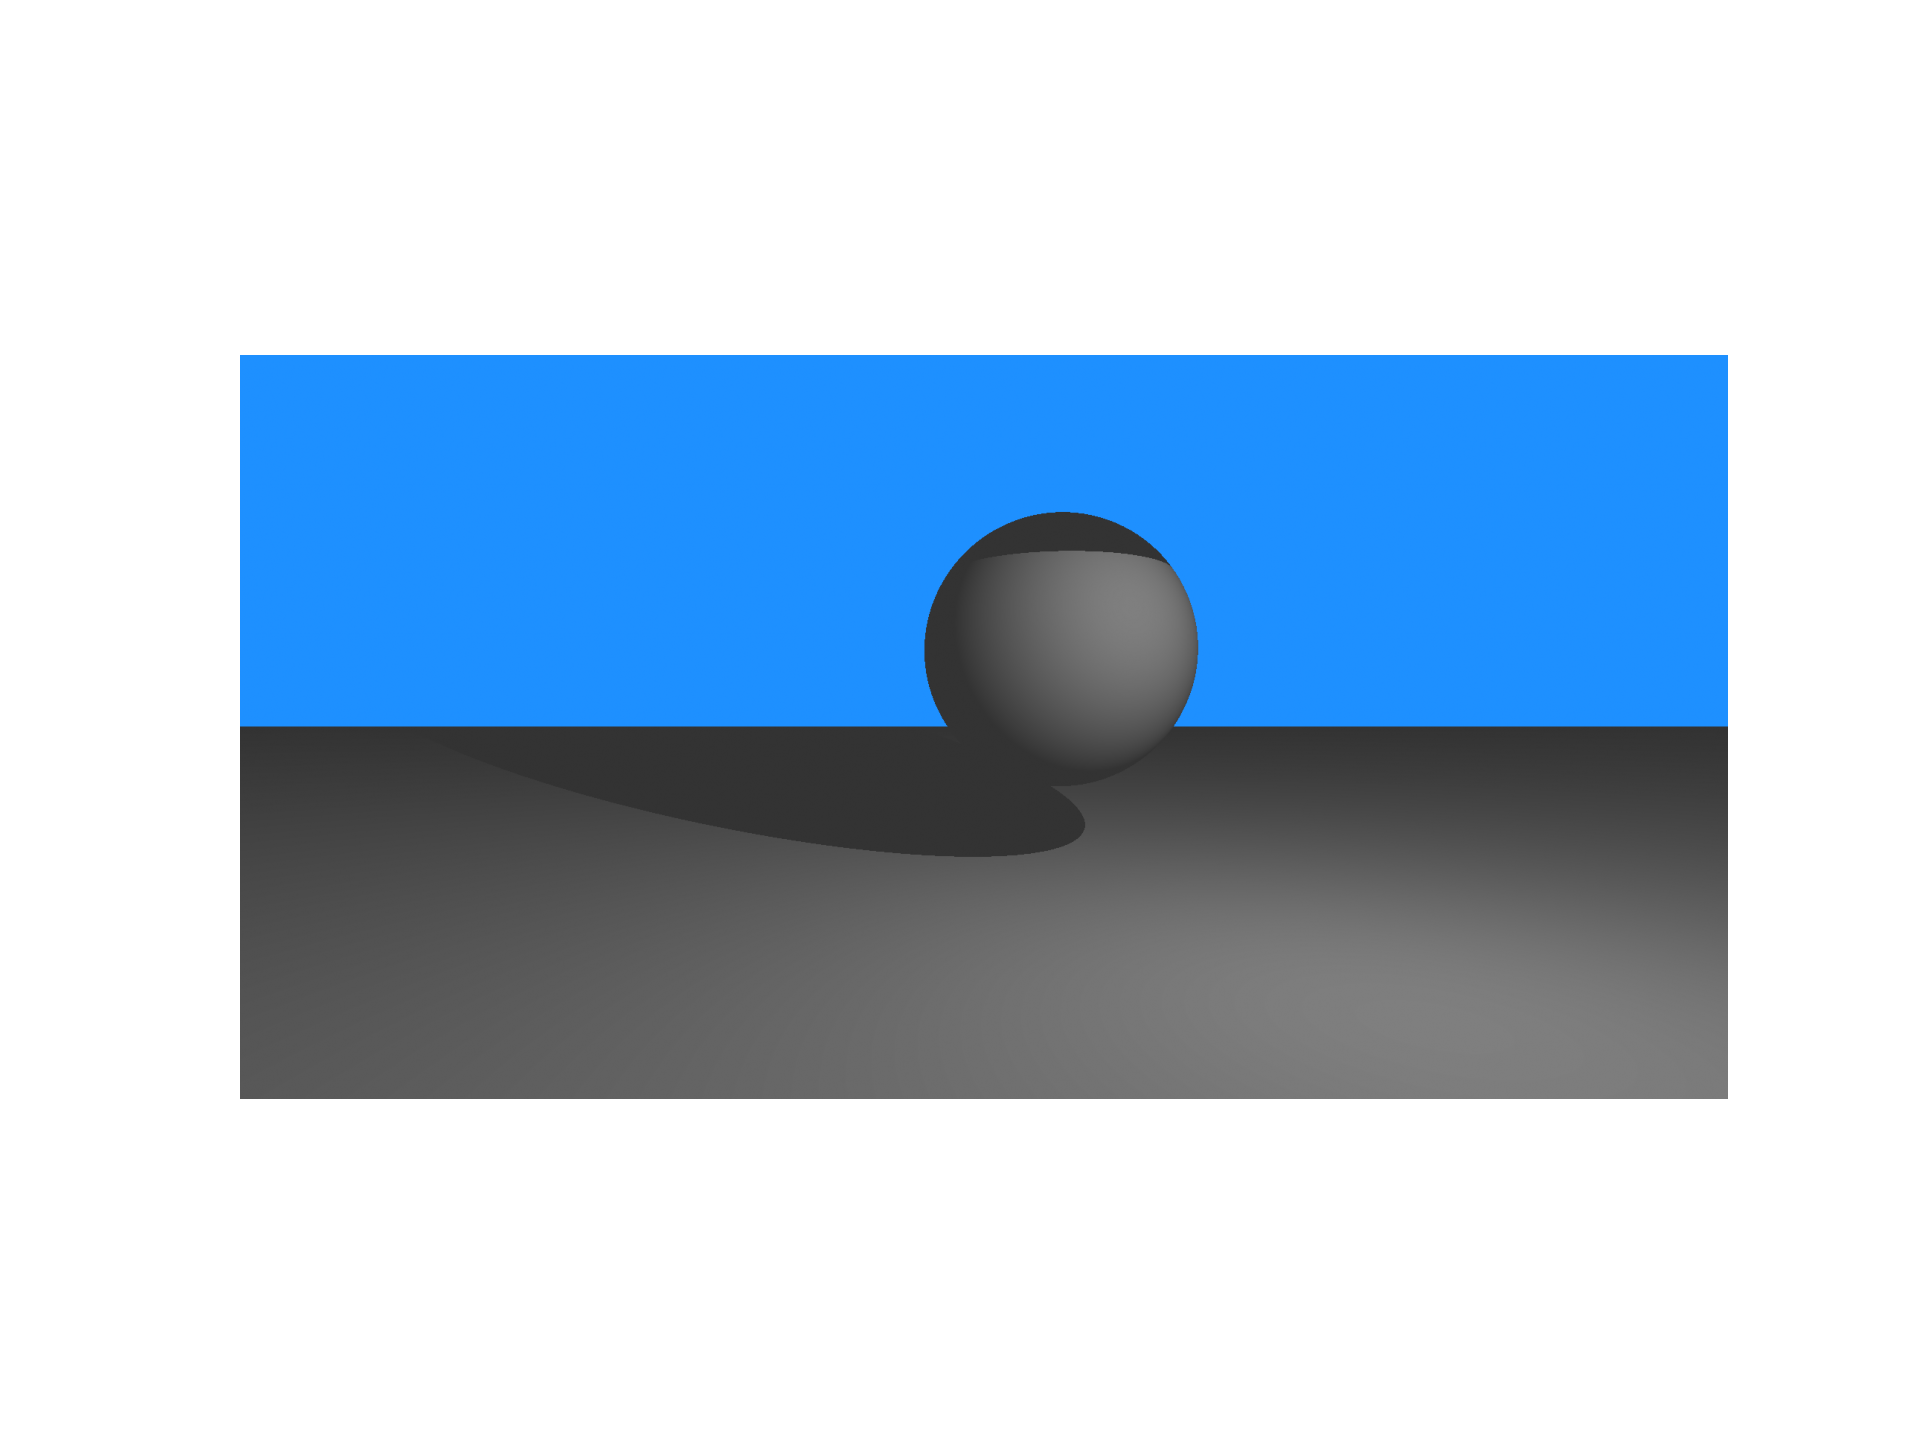
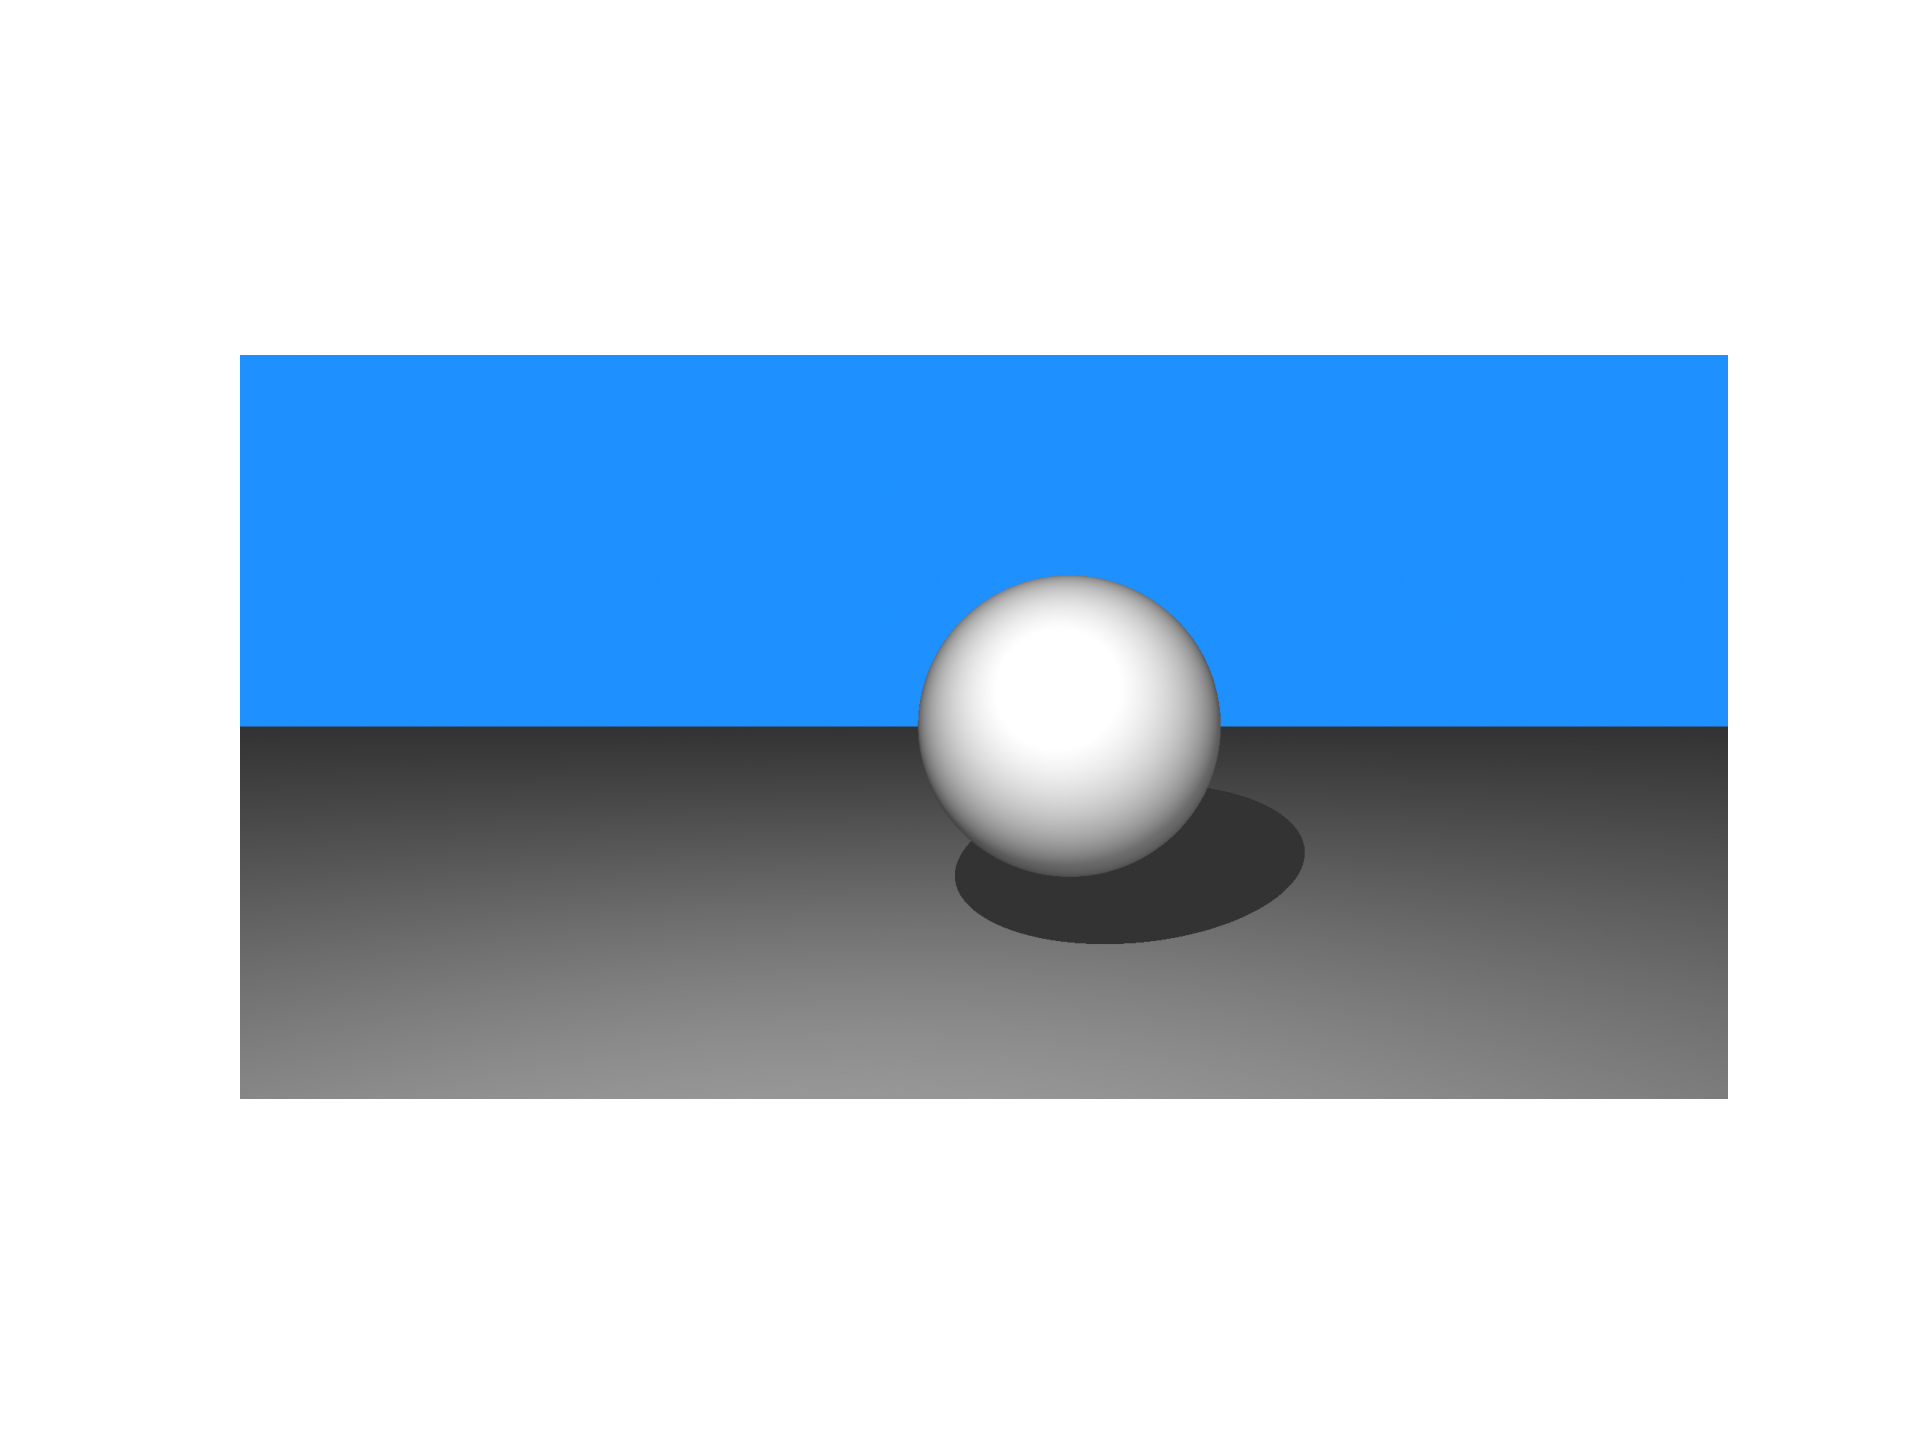
camera again

Changed region(s): [[0.125, 0.625, 0.6562, 0.7812], [0.3438, 0.3438, 0.6875, 0.6562]]

diff --git a/render/scene.cpp b/render/scene.cpp
@@ -34,40 +34,47 @@ Matr3 Camera::calculate_rotate() {
 }
 
 Ray Camera::calculate_ray(unsigned x, unsigned y) {
-    
- 
 
-    Vec3 screen_point(width * x / WIDTH - width / 2 + this->position.x, 1 + this->position.y, height  * y / HEIGHT - height / 2 + this->position.z);
-    Vec3 direction(rotate * (screen_point - position).normalized());
-    return Ray(position, direction);
+    Vec3 point(2*tan(FOV_X/2) * (x*1.0 / X - 0.5), 1, 2*tan(FOV_Y/2) * (y *1.0/ Y - 0.5));
+    Vec3 screen_point = point + position;
+    Vec3 direction(rotate *point);
+    return Ray(position, direction.normalized());
 }
 
-Camera::Camera(Vec3 position, Vec3 angles, double distance, double width, double height):
-    position(position), distance(distance), width(width), height(height) {
+Camera::Camera(Vec3 position, Vec3 angles, double FOV_X, int X = WIDTH, int Y = HEIGHT):
+    position(position), FOV_X(FOV_X), X(X), Y(Y) {
     for (short i = 0; i < 3; i++) this->angles[i] = angles[i];
     rotate = calculate_rotate();
+    FOV_Y = 2* atan(tan(FOV_X/2)*(Y*1.00/X));
 }
 
 Camera::Camera() {
     position = Vec3(0, 0, 0);
     angles[0] = 0, angles[1] = 0, angles[2] = 0;
-    FOV = 0.7;
-
-    width = 2*tan(FOV/2);
-    height = (width * HEIGHT)/WIDTH;
+    X = WIDTH;
+    Y = HEIGHT;
+    FOV_X = 0.7;
+    FOV_Y = 2* atan(tan(0.7/2)* (Y/X));
 
     rotate = calculate_rotate();
 }
 
+int Camera::height() const{
+    return Y;
+}
+
+int Camera::width() const{
+    return X;
+}
 
 //res Ray[Width][Hight]
 std::vector<std::vector<Ray>> Camera::create_rays() {
     std::vector<std::vector<Ray>> ret;
     std::vector<Ray> _a;
-    for (int i = 0; i < WIDTH; i++)
+    for (int i = 0; i < X; i++)
         ret.push_back(_a);
-    for (unsigned x = 0; x < WIDTH; x++) {
-        for (unsigned y = 0; y < HEIGHT; y++) {
+    for (unsigned x = 0; x < X; x++) {
+        for (unsigned y = 0; y < Y; y++) {
             ret[x].push_back(calculate_ray(x, y));
         }
     }
@@ -78,15 +85,20 @@ std::vector<std::vector<Ray>> Camera::create_rays() {
 Object* Camera::clone(std::vector<std::string> const & arg){
    // Vec3 position, Vec3 angles, double distance, double width, double height
     assert(arg.size() >= 9);
-    Camera* rez = new Camera();
-    rez->position = Vec3(atof(arg[0].c_str()), atof(arg[1].c_str()), atof(arg[2].c_str()));
-    rez->angles[0] = atof(arg[3].c_str());
-    rez->angles[1] = atof(arg[4].c_str());
-    rez->angles[2] = atof(arg[5].c_str());
-    rez->distance = atof(arg[6].c_str());
-    rez->width = atof(arg[7].c_str());
-    rez->height = atof(arg[8].c_str());
-    rez->rotate = calculate_rotate();
+    Camera* rez = new Camera(
+        Vec3(atof(arg[0].c_str()), atof(arg[1].c_str()), atof(arg[2].c_str())),
+        Vec3(atof(arg[3].c_str()), atof(arg[4].c_str()), atof(arg[5].c_str())),
+        atof(arg[6].c_str()), atof(arg[7].c_str()),  atof(arg[8].c_str())
+    );
+    /*
+    rez->position = ;
+    rez->angles[0] = ;
+    rez->angles[1] = ;
+    rez->angles[2] = 
+    rez->FOV_X = ;
+    rez->X = a;
+    rez->Y = atof(arg[8].c_str());
+    rez->rotate = calculate_rotate();*/
     return rez;
 }
 
@@ -102,18 +114,23 @@ Color** Scene::get_res() {
     return res;
 }
 
+const Camera* Scene::get_camera() const{
+    return camera;
+};
+
 Scene::Scene() {
-    res = new Color*[WIDTH];
-    for (short i = 0; i < WIDTH; i++) {
-        res[i] = new Color[HEIGHT];
-    }
+    // res = new Color*[WIDTH];
+    // for (short i = 0; i < WIDTH; i++) {
+    //     res[i] = new Color[HEIGHT];
+    // }
 }
 
 Scene::~Scene() {
-    for (short i = 0; i < WIDTH; i++) {
+    for (short i = 0; i < camera->width(); i++) {
         delete[] res[i];
     }
     delete[] res;
+    delete camera;
 }
 
 Scene::Scene(std::vector<Figure*> figures, std::vector<Light_source*> lights, Camera* camera):
@@ -237,9 +254,16 @@ Color Scene::trace_ray(Ray ray) {
 void Scene::render() {
     std::vector<std::vector<Ray>> rays = camera->create_rays();
 
+    int height =  camera->height();
+    int width = camera->width();
 
-    for (unsigned x = 0; x < WIDTH; x++) {
-        for (unsigned y = 0; y < HEIGHT; y++) {
+    res = new Color*[width];
+     for (short i = 0; i < width; i++) {
+         res[i] = new Color[height];
+    }
+
+    for (unsigned x = 0; x < width; x++) {
+        for (unsigned y = 0; y < height; y++) {
             // int pos_x = rays[x][y].x, pos_y = rays[x][y].y;
             res[x][y] = trace_ray(rays[x][y]);
             

diff --git a/render/scene.h b/render/scene.h
@@ -153,16 +153,17 @@ class Camera: public Object {
     Vec3 position;
     double angles[3]; // psi, theta, pfi;
     Matr3 rotate; // матрица поворота
-    double FOV; // ширина поля зрения вдоль WIDTH: 1,57 - 90 Градусов
-    double distance; // расстояние до экрана
-    double width, height; // ширина и высота экрана
+    double FOV_X, FOV_Y; // ширина поля зрения вдоль WIDTH: 1,57 - 90 Градусов
+    int X, Y; // ширина и высота экрана
     Matr3 calculate_rotate();
     Ray calculate_ray(unsigned x, unsigned y);
 public:
-Object* clone(std::vector<std::string> const & arg);
+    int height() const;
+    int width() const;
+    Object* clone(std::vector<std::string> const & arg);
     std::pair<int,std::string> name() const;
     Camera(); // пустой конструктор (источник в начале координат, углы нулевые, расстояние, ширина, высота единицы)
-    Camera(Vec3 position, Vec3 angels, double distance = 1, double width = 1, double height = 1);
+    Camera(Vec3 position, Vec3 angels, double FOV_X, int X, int Y);
     std::vector<std::vector<Ray>> create_rays(); // генерация лучей
 };
 
@@ -179,6 +180,7 @@ public:
     ~Scene();
     Scene(std::vector<Figure*> figures, std::vector<Light_source*> lights, Camera* camera);
 
+    const Camera* get_camera() const;
     Color** get_res();
 
     //fills scene with objects

diff --git a/main.cpp b/main.cpp
@@ -15,10 +15,12 @@ int main() {
     r.initialization("scene.ass");
     r.render();
     Color** res = r.get_res();
-	
-    printf("%d %d %d\n", HEIGHT, WIDTH, 3);
-   	for (int j = HEIGHT - 1; j >= 0; j--) {
-        for (int i = 0; i < WIDTH; i++) {
+    int height =  r.get_camera()->height();
+    int width = r.get_camera()->width();
+    printf("%d %d %d\n", height, width, 3);
+    
+   	for (int j = height - 1; j >= 0; j--) {
+        for (int i = 0; i < width; i++) {
             printf("%03d %03d %03d ", res[i][j].r, res[i][j].g, res[i][j].b);
         }
    	}
